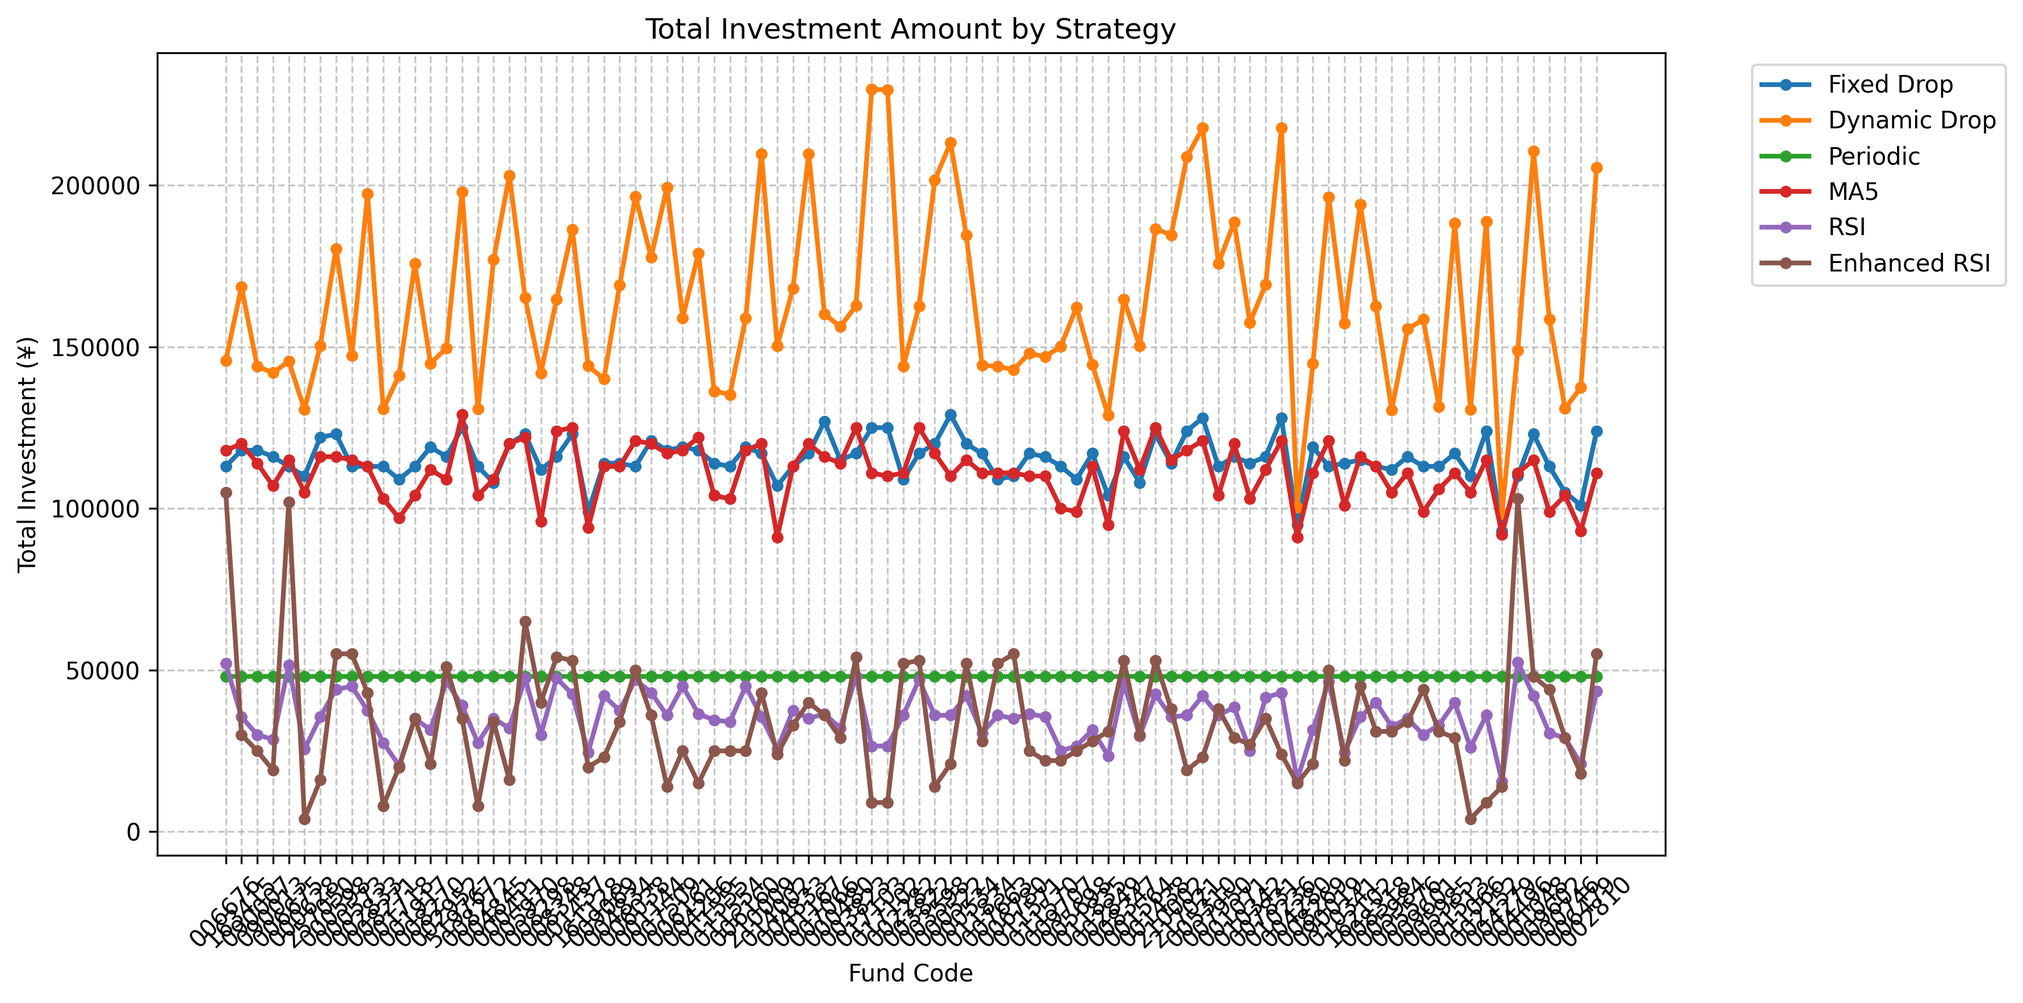
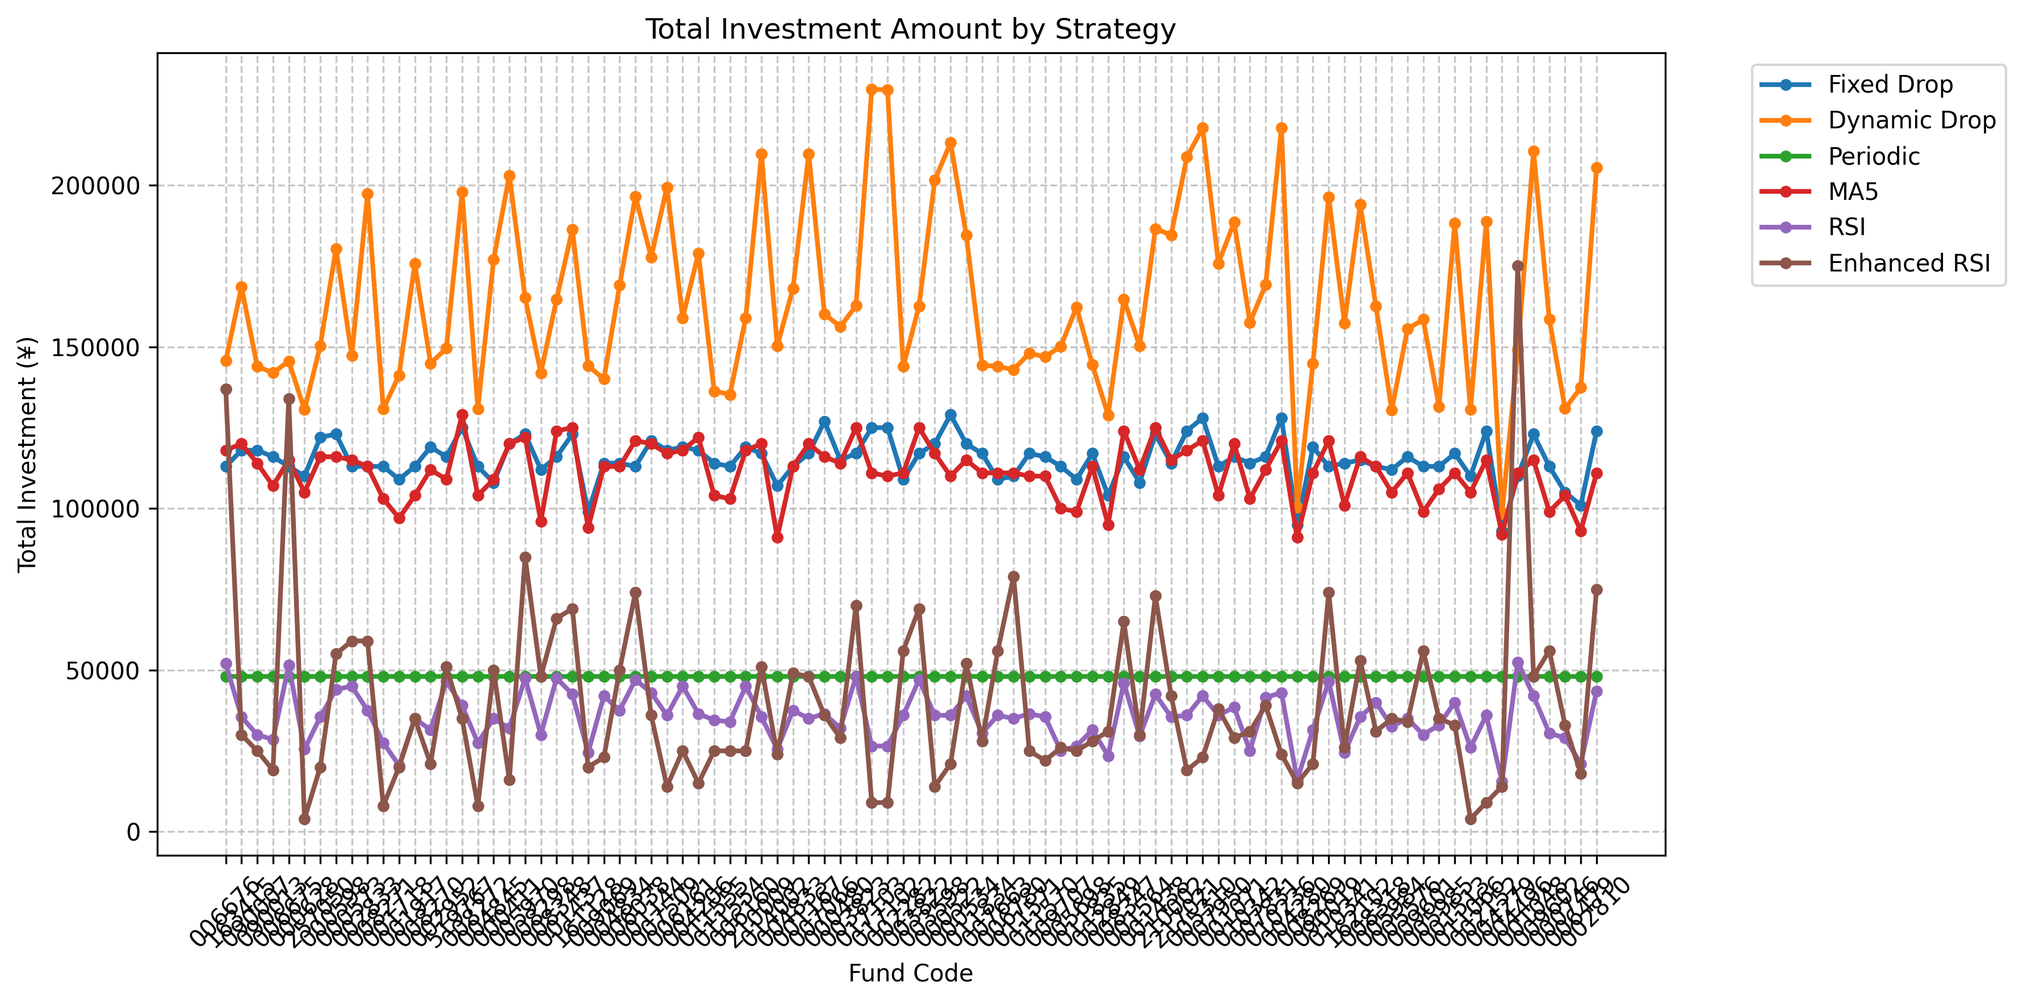
refactor: Improve code readability and adjust parameter order in  function.

diff --git a/app/models/strategy.py b/app/models/strategy.py
@@ -45,7 +45,7 @@ def periodic_strategy(current_value: float, prev_value: float | None, date_index
 
 
 def ma_5_strategy(current_value: float, prev_value: float | None, date_index: int,
-                      price_history: List[float], ma_short: int = 5, ma_long: int = 20) -> float:
+                  price_history: List[float], ma_short: int = 5, ma_long: int = 20) -> float:
     """Strategy 4:
     Buy when current price is below or equal to 5-day moving average
     This helps catch more buying opportunities at support levels
@@ -141,7 +141,9 @@ def enhanced_rsi_strategy(current_value: float, prev_value: float | None, date_i
     rsi = 100 - (100 / (1 + rs))
 
     # Simplified but more aggressive position sizing
-    if rsi <= 20:  # Extremely oversold - go all in
+    if rsi < 15:
+        return 8000.0
+    elif rsi <= 20:  # Extremely oversold - go all in
         return 4000.0
     elif rsi <= 25:  # Heavily oversold
         return 2000.0

diff --git a/results/comparison/total_investment.md b/results/comparison/total_investment.md
@@ -4,16 +4,16 @@
 
 | Fund Code | Fixed Drop | Dynamic Drop | Periodic | MA5 | RSI | Enhanced RSI |
 |---|---|---|---|---|---|---|
-| 006676 | 113000.00 | 145698.33 | 48000.00 | 118000.00 | 52000.00 | 105000.00 |
+| 006676 | 113000.00 | 145698.33 | 48000.00 | 118000.00 | 52000.00 | 137000.00 |
 | 163415 | 118000.00 | 168538.28 | 48000.00 | 120000.00 | 35500.00 | 30000.00 |
 | 090007 | 118000.00 | 143949.70 | 48000.00 | 114000.00 | 30000.00 | 25000.00 |
 | 090013 | 116000.00 | 141954.28 | 48000.00 | 107000.00 | 28500.00 | 19000.00 |
-| 006675 | 113000.00 | 145562.35 | 48000.00 | 115000.00 | 51500.00 | 102000.00 |
+| 006675 | 113000.00 | 145562.35 | 48000.00 | 115000.00 | 51500.00 | 134000.00 |
 | 000628 | 110000.00 | 130545.18 | 48000.00 | 105000.00 | 25500.00 | 4000.00 |
-| 257050 | 122000.00 | 150360.95 | 48000.00 | 116000.00 | 35500.00 | 16000.00 |
+| 257050 | 122000.00 | 150360.95 | 48000.00 | 116000.00 | 35500.00 | 20000.00 |
 | 000598 | 123000.00 | 180425.74 | 48000.00 | 116000.00 | 44000.00 | 55000.00 |
-| 000573 | 113000.00 | 147316.50 | 48000.00 | 115000.00 | 45000.00 | 55000.00 |
-| 002833 | 113000.00 | 197353.29 | 48000.00 | 113000.00 | 37500.00 | 43000.00 |
+| 000573 | 113000.00 | 147316.50 | 48000.00 | 115000.00 | 45000.00 | 59000.00 |
+| 002833 | 113000.00 | 197353.29 | 48000.00 | 113000.00 | 37500.00 | 59000.00 |
 | 008271 | 113000.00 | 130712.10 | 48000.00 | 103000.00 | 27500.00 | 8000.00 |
 | 001718 | 109000.00 | 141238.01 | 48000.00 | 97000.00 | 20500.00 | 20000.00 |
 | 001917 | 113000.00 | 175699.77 | 48000.00 | 104000.00 | 35000.00 | 35000.00 |
@@ -21,16 +21,16 @@
 | 002952 | 116000.00 | 149506.33 | 48000.00 | 109000.00 | 46500.00 | 51000.00 |
 | 519767 | 125000.00 | 197943.17 | 48000.00 | 129000.00 | 39000.00 | 35000.00 |
 | 008272 | 113000.00 | 130832.28 | 48000.00 | 104000.00 | 27500.00 | 8000.00 |
-| 004845 | 108000.00 | 176935.52 | 48000.00 | 109000.00 | 35000.00 | 34000.00 |
+| 004845 | 108000.00 | 176935.52 | 48000.00 | 109000.00 | 35000.00 | 50000.00 |
 | 000411 | 120000.00 | 203080.11 | 48000.00 | 120000.00 | 32000.00 | 16000.00 |
-| 005970 | 123000.00 | 165240.79 | 48000.00 | 122000.00 | 47500.00 | 65000.00 |
-| 008298 | 112000.00 | 141896.89 | 48000.00 | 96000.00 | 30000.00 | 40000.00 |
-| 008348 | 116000.00 | 164785.06 | 48000.00 | 124000.00 | 47500.00 | 54000.00 |
-| 001437 | 123000.00 | 186335.41 | 48000.00 | 125000.00 | 42500.00 | 53000.00 |
+| 005970 | 123000.00 | 165240.79 | 48000.00 | 122000.00 | 47500.00 | 85000.00 |
+| 008298 | 112000.00 | 141896.89 | 48000.00 | 96000.00 | 30000.00 | 48000.00 |
+| 008348 | 116000.00 | 164785.06 | 48000.00 | 124000.00 | 47500.00 | 66000.00 |
+| 001437 | 123000.00 | 186335.41 | 48000.00 | 125000.00 | 42500.00 | 69000.00 |
 | 161128 | 99000.00 | 144123.09 | 48000.00 | 94000.00 | 24500.00 | 20000.00 |
 | 009069 | 114000.00 | 140036.97 | 48000.00 | 113000.00 | 42000.00 | 23000.00 |
-| 004834 | 114000.00 | 169081.98 | 48000.00 | 113000.00 | 37500.00 | 34000.00 |
-| 006038 | 113000.00 | 196584.91 | 48000.00 | 121000.00 | 47000.00 | 50000.00 |
+| 004834 | 114000.00 | 169081.98 | 48000.00 | 113000.00 | 37500.00 | 50000.00 |
+| 006038 | 113000.00 | 196584.91 | 48000.00 | 121000.00 | 47000.00 | 74000.00 |
 | 001144 | 121000.00 | 177740.70 | 48000.00 | 120000.00 | 43000.00 | 36000.00 |
 | 007509 | 118000.00 | 199391.93 | 48000.00 | 117000.00 | 36000.00 | 14000.00 |
 | 006161 | 119000.00 | 158957.59 | 48000.00 | 118000.00 | 45000.00 | 25000.00 |
@@ -38,58 +38,58 @@
 | 011555 | 114000.00 | 136316.78 | 48000.00 | 104000.00 | 34500.00 | 25000.00 |
 | 011554 | 113000.00 | 135263.96 | 48000.00 | 103000.00 | 34000.00 | 25000.00 |
 | 006160 | 119000.00 | 158899.20 | 48000.00 | 118000.00 | 45000.00 | 25000.00 |
-| 210009 | 117000.00 | 209749.35 | 48000.00 | 120000.00 | 35500.00 | 43000.00 |
+| 210009 | 117000.00 | 209749.35 | 48000.00 | 120000.00 | 35500.00 | 51000.00 |
 | 014002 | 107000.00 | 150273.35 | 48000.00 | 91000.00 | 25500.00 | 24000.00 |
-| 004833 | 113000.00 | 168062.95 | 48000.00 | 113000.00 | 37500.00 | 33000.00 |
-| 001167 | 117000.00 | 209754.53 | 48000.00 | 120000.00 | 35000.00 | 40000.00 |
+| 004833 | 113000.00 | 168062.95 | 48000.00 | 113000.00 | 37500.00 | 49000.00 |
+| 001167 | 117000.00 | 209754.53 | 48000.00 | 120000.00 | 35000.00 | 48000.00 |
 | 007066 | 127000.00 | 160184.33 | 48000.00 | 116000.00 | 36500.00 | 36000.00 |
 | 000480 | 115000.00 | 156228.14 | 48000.00 | 114000.00 | 32000.00 | 29000.00 |
-| 003823 | 117000.00 | 162698.45 | 48000.00 | 125000.00 | 48000.00 | 54000.00 |
+| 003823 | 117000.00 | 162698.45 | 48000.00 | 125000.00 | 48000.00 | 70000.00 |
 | 017103 | 125000.00 | 229682.51 | 48000.00 | 111000.00 | 26500.00 | 9000.00 |
 | 017102 | 125000.00 | 229540.39 | 48000.00 | 110000.00 | 26500.00 | 9000.00 |
-| 002282 | 109000.00 | 143891.05 | 48000.00 | 111000.00 | 36000.00 | 52000.00 |
-| 003822 | 117000.00 | 162613.30 | 48000.00 | 125000.00 | 47000.00 | 53000.00 |
+| 002282 | 109000.00 | 143891.05 | 48000.00 | 111000.00 | 36000.00 | 56000.00 |
+| 003822 | 117000.00 | 162613.30 | 48000.00 | 125000.00 | 47000.00 | 69000.00 |
 | 003598 | 120000.00 | 201589.85 | 48000.00 | 117000.00 | 36000.00 | 14000.00 |
 | 000522 | 129000.00 | 213132.44 | 48000.00 | 110000.00 | 36000.00 | 21000.00 |
 | 000534 | 120000.00 | 184533.02 | 48000.00 | 115000.00 | 42000.00 | 52000.00 |
 | 011834 | 117000.00 | 144367.25 | 48000.00 | 111000.00 | 30500.00 | 28000.00 |
-| 007663 | 109000.00 | 143907.34 | 48000.00 | 111000.00 | 36000.00 | 52000.00 |
-| 006780 | 110000.00 | 142955.51 | 48000.00 | 111000.00 | 35000.00 | 55000.00 |
+| 007663 | 109000.00 | 143907.34 | 48000.00 | 111000.00 | 36000.00 | 56000.00 |
+| 006780 | 110000.00 | 142955.51 | 48000.00 | 111000.00 | 35000.00 | 79000.00 |
 | 011571 | 117000.00 | 148027.41 | 48000.00 | 110000.00 | 36500.00 | 25000.00 |
 | 011570 | 116000.00 | 146882.88 | 48000.00 | 110000.00 | 35500.00 | 22000.00 |
-| 009707 | 113000.00 | 150184.97 | 48000.00 | 100000.00 | 25000.00 | 22000.00 |
+| 009707 | 113000.00 | 150184.97 | 48000.00 | 100000.00 | 25000.00 | 26000.00 |
 | 005698 | 109000.00 | 162284.84 | 48000.00 | 99000.00 | 26500.00 | 25000.00 |
 | 011835 | 117000.00 | 144483.41 | 48000.00 | 113000.00 | 31500.00 | 28000.00 |
 | 002849 | 104000.00 | 128886.91 | 48000.00 | 95000.00 | 23500.00 | 31000.00 |
-| 008347 | 116000.00 | 164700.79 | 48000.00 | 124000.00 | 46000.00 | 53000.00 |
+| 008347 | 116000.00 | 164700.79 | 48000.00 | 124000.00 | 46000.00 | 65000.00 |
 | 001564 | 108000.00 | 150285.36 | 48000.00 | 112000.00 | 29500.00 | 30000.00 |
-| 001438 | 123000.00 | 186541.02 | 48000.00 | 125000.00 | 42500.00 | 53000.00 |
-| 210002 | 114000.00 | 184602.00 | 48000.00 | 115000.00 | 35500.00 | 38000.00 |
+| 001438 | 123000.00 | 186541.02 | 48000.00 | 125000.00 | 42500.00 | 73000.00 |
+| 210002 | 114000.00 | 184602.00 | 48000.00 | 115000.00 | 35500.00 | 42000.00 |
 | 217021 | 124000.00 | 208725.12 | 48000.00 | 118000.00 | 36000.00 | 19000.00 |
 | 005310 | 128000.00 | 217726.92 | 48000.00 | 121000.00 | 42000.00 | 23000.00 |
 | 007950 | 113000.00 | 175821.44 | 48000.00 | 104000.00 | 36000.00 | 38000.00 |
 | 001071 | 116000.00 | 188574.30 | 48000.00 | 120000.00 | 38500.00 | 29000.00 |
-| 010342 | 114000.00 | 157506.06 | 48000.00 | 103000.00 | 25000.00 | 27000.00 |
-| 007831 | 116000.00 | 169273.21 | 48000.00 | 112000.00 | 41500.00 | 35000.00 |
+| 010342 | 114000.00 | 157506.06 | 48000.00 | 103000.00 | 25000.00 | 31000.00 |
+| 007831 | 116000.00 | 169273.21 | 48000.00 | 112000.00 | 41500.00 | 39000.00 |
 | 010236 | 128000.00 | 217797.23 | 48000.00 | 121000.00 | 43000.00 | 24000.00 |
 | 004280 | 95000.00 | 100455.63 | 48000.00 | 91000.00 | 16000.00 | 15000.00 |
 | 008269 | 119000.00 | 144865.24 | 48000.00 | 111000.00 | 31500.00 | 21000.00 |
-| 090019 | 113000.00 | 196394.63 | 48000.00 | 121000.00 | 46500.00 | 50000.00 |
-| 010341 | 114000.00 | 157315.79 | 48000.00 | 101000.00 | 24500.00 | 22000.00 |
-| 162102 | 115000.00 | 194047.19 | 48000.00 | 116000.00 | 35500.00 | 45000.00 |
+| 090019 | 113000.00 | 196394.63 | 48000.00 | 121000.00 | 46500.00 | 74000.00 |
+| 010341 | 114000.00 | 157315.79 | 48000.00 | 101000.00 | 24500.00 | 26000.00 |
+| 162102 | 115000.00 | 194047.19 | 48000.00 | 116000.00 | 35500.00 | 53000.00 |
 | 008318 | 113000.00 | 162523.29 | 48000.00 | 113000.00 | 40000.00 | 31000.00 |
-| 005984 | 112000.00 | 130470.84 | 48000.00 | 105000.00 | 32500.00 | 31000.00 |
+| 005984 | 112000.00 | 130470.84 | 48000.00 | 105000.00 | 32500.00 | 35000.00 |
 | 005576 | 116000.00 | 155519.85 | 48000.00 | 111000.00 | 35000.00 | 34000.00 |
-| 009601 | 113000.00 | 158487.50 | 48000.00 | 99000.00 | 30000.00 | 44000.00 |
-| 005985 | 113000.00 | 131559.41 | 48000.00 | 106000.00 | 33000.00 | 31000.00 |
-| 001513 | 117000.00 | 188200.70 | 48000.00 | 111000.00 | 40000.00 | 29000.00 |
+| 009601 | 113000.00 | 158487.50 | 48000.00 | 99000.00 | 30000.00 | 56000.00 |
+| 005985 | 113000.00 | 131559.41 | 48000.00 | 106000.00 | 33000.00 | 35000.00 |
+| 001513 | 117000.00 | 188200.70 | 48000.00 | 111000.00 | 40000.00 | 33000.00 |
 | 011066 | 110000.00 | 130571.23 | 48000.00 | 105000.00 | 26000.00 | 4000.00 |
 | 002152 | 124000.00 | 188806.85 | 48000.00 | 115000.00 | 36000.00 | 9000.00 |
 | 004279 | 93000.00 | 98442.93 | 48000.00 | 92000.00 | 15500.00 | 14000.00 |
-| 004496 | 110000.00 | 148964.67 | 48000.00 | 111000.00 | 52500.00 | 103000.00 |
+| 004496 | 110000.00 | 148964.67 | 48000.00 | 111000.00 | 52500.00 | 175000.00 |
 | 001048 | 123000.00 | 210564.21 | 48000.00 | 115000.00 | 42000.00 | 48000.00 |
-| 009602 | 113000.00 | 158612.51 | 48000.00 | 99000.00 | 30500.00 | 44000.00 |
-| 000746 | 105000.00 | 130915.74 | 48000.00 | 104000.00 | 29000.00 | 29000.00 |
+| 009602 | 113000.00 | 158612.51 | 48000.00 | 99000.00 | 30500.00 | 56000.00 |
+| 000746 | 105000.00 | 130915.74 | 48000.00 | 104000.00 | 29000.00 | 33000.00 |
 | 006479 | 101000.00 | 137401.06 | 48000.00 | 93000.00 | 21000.00 | 18000.00 |
-| 002810 | 124000.00 | 205512.18 | 48000.00 | 111000.00 | 43500.00 | 55000.00 |
-| Average | 115272.73 | 164787.69 | 48000.00 | 111352.27 | 35545.45 | 33965.91 |
+| 002810 | 124000.00 | 205512.18 | 48000.00 | 111000.00 | 43500.00 | 75000.00 |
+| Average | 115272.73 | 164787.69 | 48000.00 | 111352.27 | 35545.45 | 39784.09 |

diff --git a/results/comparison/profit.md b/results/comparison/profit.md
@@ -2,16 +2,16 @@
 
 | Fund Code | Fixed Drop | Dynamic Drop | Periodic | MA5 | RSI | Enhanced RSI |
 |-----------|---------------|---------------|---------------|---------------|---------------|---------------|
-| 006676 | 2.21% | 2.56% | 1.46% | 2.92% | 5.93% | 8.88% |
+| 006676 | 2.21% | 2.56% | 1.46% | 2.92% | 5.93% | 10.53% |
 | 163415 | 14.30% | 14.45% | 13.92% | 16.24% | 21.73% | 25.35% |
 | 090007 | 14.69% | 14.88% | 13.88% | 15.06% | 18.88% | 21.37% |
 | 090013 | 14.41% | 14.72% | 13.72% | 14.71% | 18.37% | 19.46% |
-| 006675 | 1.98% | 2.34% | 1.25% | 2.61% | 5.53% | 8.62% |
+| 006675 | 1.98% | 2.34% | 1.25% | 2.61% | 5.53% | 10.23% |
 | 000628 | 11.75% | 11.74% | 12.49% | 12.42% | 9.71% | 8.90% |
-| 257050 | 20.50% | 20.62% | 19.31% | 21.77% | 23.41% | 25.41% |
+| 257050 | 20.50% | 20.62% | 19.31% | 21.77% | 23.41% | 24.77% |
 | 000598 | 25.96% | 25.47% | 23.77% | 27.65% | 34.81% | 37.73% |
-| 000573 | 13.09% | 13.18% | 12.22% | 13.46% | 13.98% | 15.49% |
-| 002833 | 28.45% | 28.41% | 25.50% | 28.94% | 37.53% | 43.26% |
+| 000573 | 13.09% | 13.18% | 12.22% | 13.46% | 13.98% | 15.30% |
+| 002833 | 28.45% | 28.41% | 25.50% | 28.94% | 37.53% | 46.55% |
 | 008271 | 11.64% | 11.76% | 11.91% | 12.10% | 9.65% | 8.89% |
 | 001718 | 20.02% | 19.70% | 19.40% | 19.74% | 16.19% | 22.69% |
 | 001917 | 18.41% | 18.88% | 16.56% | 19.80% | 25.77% | 28.80% |
@@ -19,16 +19,16 @@
 | 002952 | 21.42% | 21.59% | 19.47% | 22.01% | 27.38% | 30.68% |
 | 519767 | 14.21% | 13.83% | 13.10% | 15.17% | 20.19% | 26.73% |
 | 008272 | 11.20% | 11.33% | 11.46% | 11.63% | 9.33% | 8.48% |
-| 004845 | 23.07% | 23.71% | 20.49% | 23.91% | 30.01% | 41.15% |
+| 004845 | 23.07% | 23.71% | 20.49% | 23.91% | 30.01% | 43.86% |
 | 000411 | 26.92% | 27.61% | 26.03% | 28.18% | 38.46% | 45.60% |
-| 005970 | 13.41% | 13.45% | 12.74% | 13.89% | 16.05% | 17.00% |
-| 008298 | 18.81% | 18.39% | 18.86% | 18.88% | 20.73% | 22.86% |
-| 008348 | 17.47% | 17.32% | 15.83% | 17.91% | 22.84% | 26.96% |
-| 001437 | 20.12% | 19.39% | 18.87% | 21.95% | 27.67% | 32.23% |
+| 005970 | 13.41% | 13.45% | 12.74% | 13.89% | 16.05% | 17.82% |
+| 008298 | 18.81% | 18.39% | 18.86% | 18.88% | 20.73% | 23.14% |
+| 008348 | 17.47% | 17.32% | 15.83% | 17.91% | 22.84% | 27.94% |
+| 001437 | 20.12% | 19.39% | 18.87% | 21.95% | 27.67% | 33.60% |
 | 161128 | 13.85% | 14.15% | 14.52% | 13.84% | 18.80% | 20.14% |
 | 009069 | 12.37% | 12.56% | 12.15% | 12.58% | 12.73% | 11.08% |
-| 004834 | 33.94% | 33.98% | 31.60% | 37.28% | 40.94% | 45.97% |
-| 006038 | 30.23% | 30.09% | 27.16% | 31.33% | 39.56% | 44.49% |
+| 004834 | 33.94% | 33.98% | 31.60% | 37.28% | 40.94% | 46.81% |
+| 006038 | 30.23% | 30.09% | 27.16% | 31.33% | 39.56% | 46.29% |
 | 001144 | 17.28% | 16.62% | 15.95% | 18.28% | 24.41% | 28.41% |
 | 007509 | 32.91% | 32.86% | 31.95% | 36.86% | 43.51% | 44.32% |
 | 006161 | 18.05% | 18.49% | 16.75% | 19.02% | 23.19% | 28.74% |
@@ -36,59 +36,59 @@
 | 011555 | 10.76% | 10.81% | 10.00% | 10.98% | 13.89% | 16.39% |
 | 011554 | 10.74% | 10.80% | 10.02% | 11.03% | 13.96% | 16.38% |
 | 006160 | 18.36% | 18.81% | 17.05% | 19.32% | 23.50% | 29.18% |
-| 210009 | 27.59% | 27.95% | 25.92% | 30.27% | 41.55% | 48.55% |
+| 210009 | 27.59% | 27.95% | 25.92% | 30.27% | 41.55% | 51.02% |
 | 014002 | 14.16% | 14.52% | 14.14% | 14.05% | 18.36% | 19.80% |
-| 004833 | 34.04% | 34.09% | 31.72% | 37.40% | 41.08% | 46.21% |
-| 001167 | 28.29% | 28.74% | 26.48% | 31.17% | 42.46% | 49.77% |
+| 004833 | 34.04% | 34.09% | 31.72% | 37.40% | 41.08% | 47.07% |
+| 001167 | 28.29% | 28.74% | 26.48% | 31.17% | 42.46% | 52.42% |
 | 007066 | 17.80% | 17.86% | 16.67% | 18.89% | 20.90% | 20.29% |
 | 000480 | 17.28% | 17.30% | 15.85% | 17.88% | 22.61% | 26.24% |
-| 003823 | 16.47% | 16.35% | 15.06% | 16.82% | 21.91% | 26.06% |
+| 003823 | 16.47% | 16.35% | 15.06% | 16.82% | 21.91% | 26.82% |
 | 017103 | 43.31% | 45.11% | 40.44% | 42.77% | 47.40% | 49.92% |
 | 017102 | 43.77% | 45.60% | 40.89% | 43.27% | 47.83% | 50.36% |
-| 002282 | 17.72% | 17.52% | 16.58% | 19.00% | 21.36% | 22.60% |
-| 003822 | 16.70% | 16.58% | 15.29% | 17.04% | 22.13% | 26.23% |
+| 002282 | 17.72% | 17.52% | 16.58% | 19.00% | 21.36% | 22.27% |
+| 003822 | 16.70% | 16.58% | 15.29% | 17.04% | 22.13% | 27.02% |
 | 003598 | 33.05% | 32.95% | 31.99% | 36.91% | 43.57% | 44.41% |
 | 000522 | 21.81% | 21.88% | 20.37% | 22.04% | 24.87% | 26.58% |
 | 000534 | 32.21% | 32.12% | 30.09% | 35.45% | 44.01% | 47.29% |
 | 011834 | 15.46% | 15.80% | 14.93% | 16.21% | 19.69% | 21.26% |
-| 007663 | 17.66% | 17.47% | 16.53% | 18.94% | 21.31% | 22.54% |
-| 006780 | 17.43% | 17.41% | 16.44% | 18.02% | 22.18% | 23.87% |
+| 007663 | 17.66% | 17.47% | 16.53% | 18.94% | 21.31% | 22.21% |
+| 006780 | 17.43% | 17.41% | 16.44% | 18.02% | 22.18% | 24.76% |
 | 011571 | 15.49% | 14.82% | 16.04% | 15.77% | 17.18% | 17.68% |
 | 011570 | 16.02% | 15.34% | 16.70% | 16.39% | 17.99% | 18.15% |
-| 009707 | 44.24% | 42.07% | 43.84% | 45.01% | 51.39% | 56.03% |
+| 009707 | 44.24% | 42.07% | 43.84% | 45.01% | 51.39% | 56.29% |
 | 005698 | 17.95% | 18.29% | 17.93% | 17.68% | 23.00% | 22.95% |
 | 011835 | 14.99% | 15.32% | 14.46% | 15.69% | 18.98% | 20.79% |
 | 002849 | 18.18% | 17.83% | 18.13% | 18.28% | 19.48% | 20.82% |
-| 008347 | 17.70% | 17.56% | 16.06% | 18.13% | 23.26% | 27.48% |
+| 008347 | 17.70% | 17.56% | 16.06% | 18.13% | 23.26% | 28.42% |
 | 001564 | 16.40% | 16.45% | 14.87% | 17.13% | 21.66% | 26.31% |
-| 001438 | 20.00% | 19.27% | 18.75% | 21.83% | 27.55% | 32.11% |
-| 210002 | 21.41% | 21.52% | 19.79% | 23.52% | 30.79% | 35.81% |
+| 001438 | 20.00% | 19.27% | 18.75% | 21.83% | 27.55% | 33.70% |
+| 210002 | 21.41% | 21.52% | 19.79% | 23.52% | 30.79% | 37.05% |
 | 217021 | 33.14% | 33.42% | 31.20% | 35.28% | 41.77% | 47.01% |
 | 005310 | 19.87% | 19.75% | 18.04% | 21.92% | 28.36% | 33.59% |
 | 007950 | 18.06% | 18.52% | 16.21% | 19.44% | 25.18% | 28.14% |
 | 001071 | 23.31% | 23.80% | 21.80% | 25.40% | 32.52% | 36.08% |
-| 010342 | 14.22% | 12.98% | 13.96% | 14.62% | 15.83% | 21.83% |
-| 007831 | 19.65% | 20.19% | 18.09% | 21.11% | 27.41% | 33.11% |
+| 010342 | 14.22% | 12.98% | 13.96% | 14.62% | 15.83% | 22.02% |
+| 007831 | 19.65% | 20.19% | 18.09% | 21.11% | 27.41% | 34.80% |
 | 010236 | 19.62% | 19.51% | 17.81% | 21.68% | 28.11% | 33.11% |
 | 004280 | 3.38% | 3.23% | 3.39% | 3.03% | 3.14% | 1.99% |
 | 008269 | 14.73% | 14.93% | 14.03% | 15.08% | 17.97% | 18.78% |
-| 090019 | 30.65% | 30.53% | 27.55% | 31.73% | 39.96% | 45.18% |
-| 010341 | 14.82% | 13.53% | 14.59% | 15.39% | 16.29% | 22.59% |
-| 162102 | 25.96% | 26.15% | 24.13% | 28.69% | 37.18% | 42.51% |
+| 090019 | 30.65% | 30.53% | 27.55% | 31.73% | 39.96% | 47.02% |
+| 010341 | 14.82% | 13.53% | 14.59% | 15.39% | 16.29% | 22.78% |
+| 162102 | 25.96% | 26.15% | 24.13% | 28.69% | 37.18% | 44.52% |
 | 008318 | 17.67% | 18.22% | 16.52% | 19.04% | 24.74% | 28.90% |
-| 005984 | 11.66% | 11.73% | 11.11% | 12.73% | 15.34% | 17.02% |
+| 005984 | 11.66% | 11.73% | 11.11% | 12.73% | 15.34% | 16.88% |
 | 005576 | 18.99% | 18.84% | 19.69% | 21.27% | 23.21% | 24.87% |
-| 009601 | 25.89% | 24.15% | 26.21% | 27.25% | 34.78% | 37.38% |
-| 005985 | 11.32% | 11.39% | 10.78% | 12.41% | 14.93% | 16.68% |
-| 001513 | 24.49% | 24.77% | 23.32% | 26.97% | 30.66% | 30.95% |
+| 009601 | 25.89% | 24.15% | 26.21% | 27.25% | 34.78% | 38.00% |
+| 005985 | 11.32% | 11.39% | 10.78% | 12.41% | 14.93% | 16.55% |
+| 001513 | 24.49% | 24.77% | 23.32% | 26.97% | 30.66% | 31.06% |
 | 011066 | 11.59% | 11.58% | 12.32% | 12.26% | 9.62% | 8.76% |
 | 002152 | 14.78% | 15.53% | 14.42% | 16.30% | 19.71% | 23.73% |
 | 004279 | 3.44% | 3.28% | 3.48% | 3.03% | 3.14% | 1.82% |
-| 004496 | -11.81% | -11.42% | -12.24% | -11.24% | -8.12% | -4.90% |
+| 004496 | -11.81% | -11.42% | -12.24% | -11.24% | -8.12% | -4.06% |
 | 001048 | 40.57% | 41.03% | 38.35% | 43.40% | 56.53% | 62.57% |
-| 009602 | 25.37% | 23.68% | 25.66% | 26.73% | 34.21% | 36.98% |
-| 000746 | 15.12% | 14.76% | 15.34% | 14.78% | 16.07% | 19.37% |
+| 009602 | 25.37% | 23.68% | 25.66% | 26.73% | 34.21% | 37.60% |
+| 000746 | 15.12% | 14.76% | 15.34% | 14.78% | 16.07% | 19.81% |
 | 006479 | 12.91% | 13.04% | 12.86% | 13.30% | 17.88% | 18.40% |
-| 002810 | 32.38% | 32.12% | 30.16% | 34.55% | 45.52% | 50.73% |
+| 002810 | 32.38% | 32.12% | 30.16% | 34.55% | 45.52% | 51.94% |
 |-----------|---------------|---------------|---------------|---------------|---------------|---------------|
-| Average | 19.24% | 19.24% | 18.23% | 20.30% | 24.60% | 27.62% |
+| Average | 19.24% | 19.24% | 18.23% | 20.30% | 24.60% | 28.02% |

diff --git a/docs/002-20250107-rsi-vs-enhanced-rsi.md b/docs/002-20250107-rsi-vs-enhanced-rsi.md
@@ -1,2 +1,40 @@
-
 # 对比一下 RSI 和 Enhanced RSI 一年的收益率如何
+
+在 [不同策略的收益率回测对比](001-20250107-returns-of-different-strategies.md) 中，我们可以看到 RSI v.s. Enhanced RSI 的收益率有 3 个点的差异。
+
+| Fund Code | Fixed Drop | Dynamic Drop | Periodic | MA5    | RSI    | Enhanced RSI |
+| --------- | ---------- | ------------ | -------- | ------ | ------ | ------------ |
+| 006676    | 2.21%      | 2.56%        | 1.46%    | 2.92%  | 5.93%  | 8.88%        |
+| 163415    | 14.30%     | 14.45%       | 13.92%   | 16.24% | 21.73% | 25.35%       |
+| 090007    | 14.69%     | 14.88%       | 13.88%   | 15.06% | 18.88% | 21.37%       |
+| 090013    | 14.41%     | 14.72%       | 13.72%   | 14.71% | 18.37% | 19.46%       |
+| 002810    | 32.38%     | 32.12%       | 30.16%   | 34.55% | 45.52% | 50.73%       |
+| Average   | 19.24%     | 19.24%       | 18.23%   | 20.30% | 24.60% | 27.62%       |
+
+二者主要区别在于 ：
+
+> RSI 只要低于 40 就买入，低于 30 就加倍买入，而 Enhanced RSI 只有低于 30 才买入，低于 40 不买入。
+
+如果 RSI 低于 30 才买入，那么两者的收益率差异会缩小，分别为 26.66% 和 27.62%。
+
+但这不代表买入点的 RSI 值设置的越低越好，如果 RSI 过低，会发现全年根据没有买入点 🤷♂ ，因此收益率为 0。
+
+```python
+def rsi(...):
+    ...
+    if rsi < 30:
+        return 1000.0
+    elif rsi < 40:
+        return 500.0
+
+
+def enhanced_rsi(...):
+    ...
+    if rsi <= 20:  # Extremely oversold - go all in
+        return 8000.0
+    elif rsi <= 25:  # Heavily oversold
+        return 2000.0
+    elif rsi <= 30:  # Classic oversold
+        return 1000.0
+    return 0.0
+```
